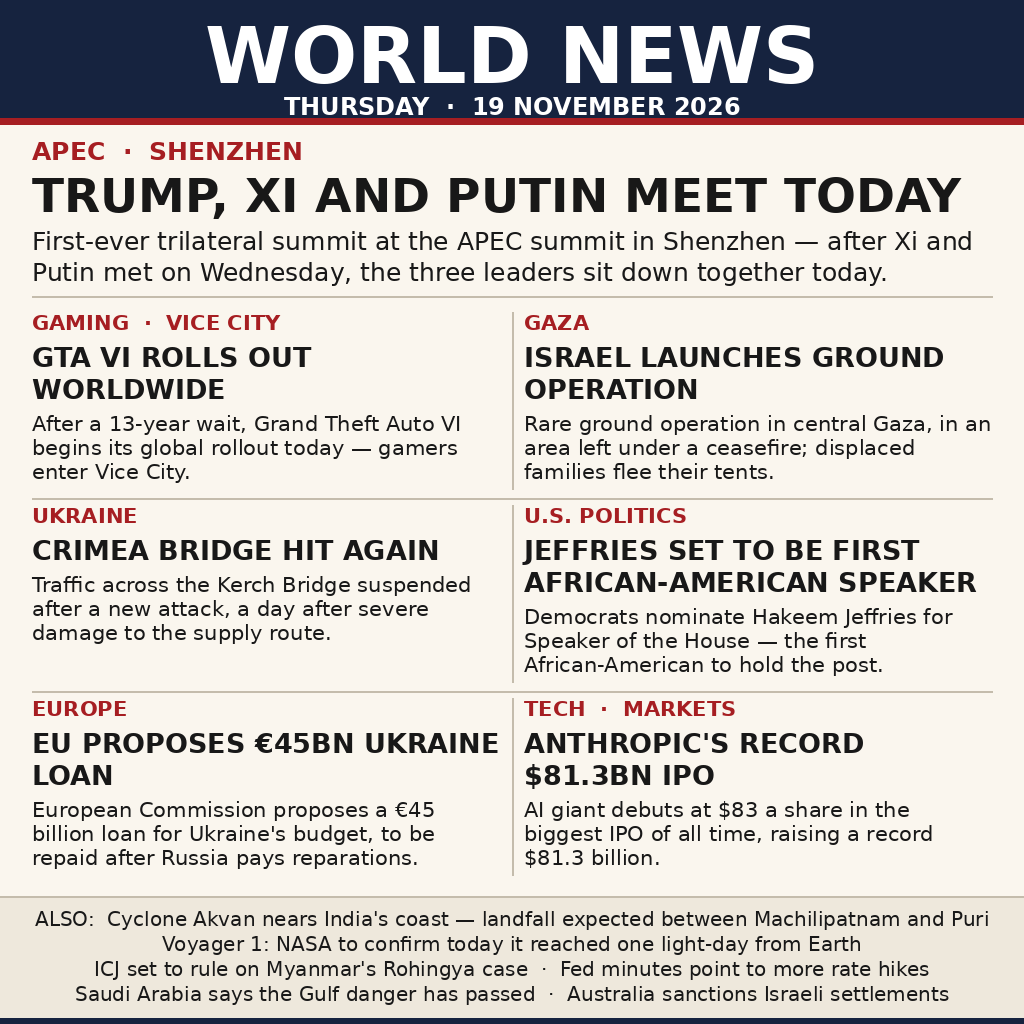
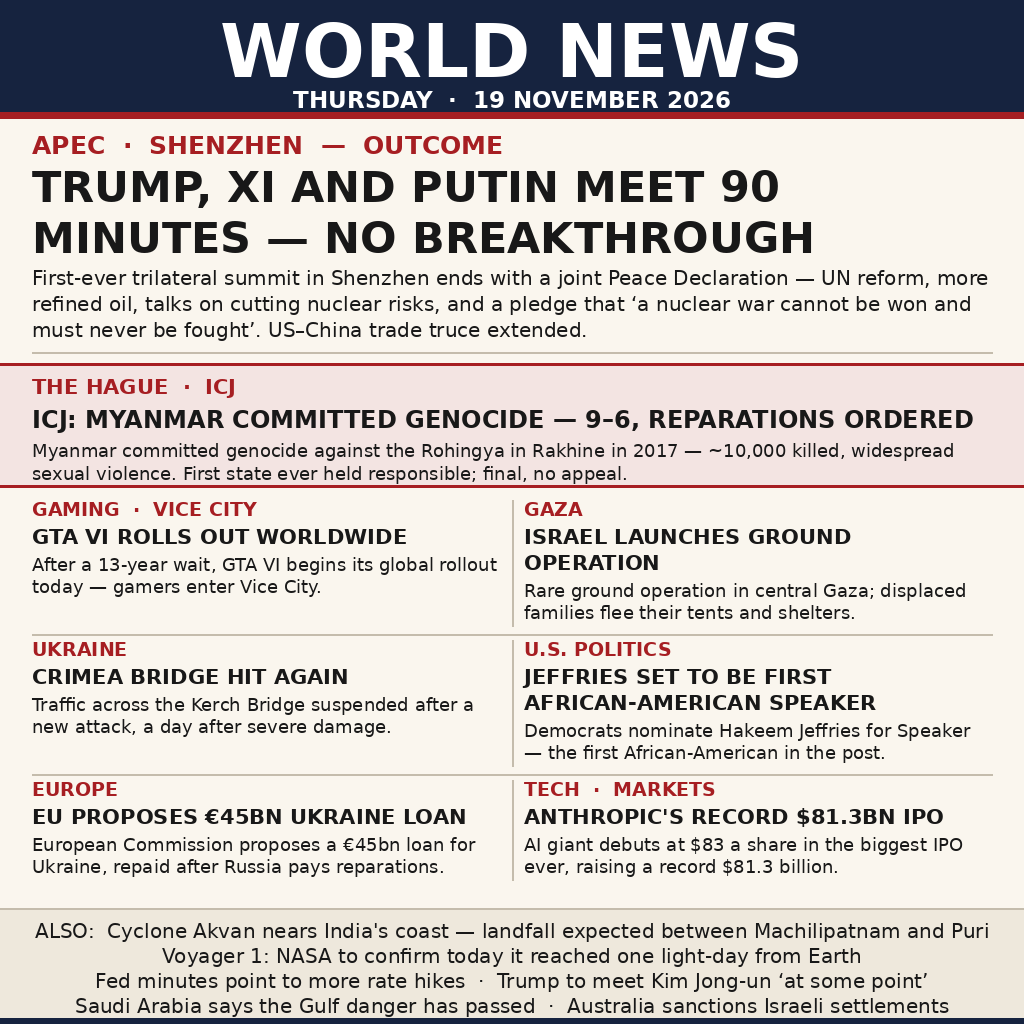
News front page v2: summit outcome + ICJ genocide verdict

Changed region(s): [[0.0, 0.0, 1.0, 1.0]]

diff --git a/gen.py b/gen.py
@@ -1,15 +1,30 @@
 #!/usr/bin/env python3
-"""Generate entry.png: a front-page newspaper infographic summing up the world
-news of Thursday 19 November 2026. Run: python3 gen.py (writes entry.png
-beside this file). All headlines, dates and numbers come from the verified
-facts file the main agent researched; nothing is invented. The trilateral
-summit is worded as happening TODAY (it had not happened at research time),
-never as an outcome.
+"""Generate entry.png v2: a front-page newspaper infographic summing up the
+world news of Thursday 19 November 2026. Run: python3 gen.py (writes
+entry.png beside this file). All headlines, dates and numbers come from the
+verified facts file plus the rebuild brief the main agent prepared on 20 Nov;
+nothing is invented.
 
-Revision pass: the first render cut every panel body off mid-sentence (the
-adaptive fit had dropped bodies to 2 lines). Fixed by shortening the hero
-body to two lines so all three body lines fit in every panel, adding a fourth
-bottom-strip line for completeness, and tightening row spacing for slack."""
+v2 changes vs v1 (both outcomes were unknown at v1 build time):
+- HERO: the Trump-Xi-Putin trilateral summit is no longer "meet today" —
+  it happened (~90 minutes, no immediate breakthrough) and ended with a
+  joint Peace Declaration plus an extended US-China trade truce.
+- NEW full-width ICJ band: the court ruled 19 Nov that Myanmar committed
+  genocide against the Rohingya in 2017 — 9-6, the first state ever held
+  responsible; judgment final, no appeal.
+- The six kept story panels and the bottom strip are unchanged in substance;
+  the strip's "ICJ set to rule" line is retired.
+
+Layout is measured, not guessed: every section height is computed from the
+actual wrapped line counts at render time and printed, so a text change
+that no longer fits is visible immediately instead of silently overflowing.
+
+Revision pass: the first v2 render let the grid's adaptive fit drop panel
+bodies to 1 line (cutting every body off mid-sentence) because the hero +
+ICJ band + 3-row grid needed ~23 px more than the v1 geometry allowed.
+Fixed by shrinking the masthead 118->112, hero headline 44->43 and body
+21->20, ICJ body 19->18, panel kicker/padding, row gap 10->8, and moving
+the strip 900->908 — bodies now keep their full 2 lines with slack."""
 
 from PIL import Image, ImageDraw, ImageFont
 
@@ -20,6 +35,7 @@ NAVY = (22, 35, 63)
 RED = (166, 30, 34)
 RULE = (196, 188, 172)
 STRIP_BG = (238, 232, 220)
+ICJ_BG = (243, 228, 226)
 
 FDIR = "/usr/share/fonts/truetype/dejavu/"
 
@@ -32,37 +48,48 @@ BOLD = "DejaVuSans-Bold.ttf"
 REG = "DejaVuSans.ttf"
 
 HERO = {
-    "kicker": "APEC  ·  SHENZHEN",
-    "headline": "TRUMP, XI AND PUTIN MEET TODAY",
-    "body": ("First-ever trilateral summit at the APEC summit in Shenzhen "
-             "\u2014 after Xi and Putin met on Wednesday, the three leaders "
-             "sit down together today."),
+    "kicker": "APEC  \u00b7  SHENZHEN  \u2014  OUTCOME",
+    "headline": "TRUMP, XI AND PUTIN MEET 90 MINUTES \u2014 NO BREAKTHROUGH",
+    "body": ("First-ever trilateral summit in Shenzhen ends with a joint "
+             "Peace Declaration \u2014 UN reform, more refined oil, talks on "
+             "cutting nuclear risks, and a pledge that \u2018a nuclear war "
+             "cannot be won and must never be fought\u2019. US\u2013China "
+             "trade truce extended."),
+}
+
+ICJ = {
+    "kicker": "THE HAGUE  \u00b7  ICJ",
+    "headline": ("ICJ: MYANMAR COMMITTED GENOCIDE \u2014 9\u20136, "
+                 "REPARATIONS ORDERED"),
+    "body": ("Myanmar committed genocide against the Rohingya in Rakhine "
+             "in 2017 \u2014 ~10,000 killed, widespread sexual violence. "
+             "First state ever held responsible; final, no appeal."),
 }
 
 PANELS = [
-    {"kicker": "GAMING  ·  VICE CITY",
+    {"kicker": "GAMING  \u00b7  VICE CITY",
      "headline": "GTA VI ROLLS OUT WORLDWIDE",
-     "body": ("After a 13-year wait, Grand Theft Auto VI begins its global "
-              "rollout today \u2014 gamers enter Vice City.")},
+     "body": ("After a 13-year wait, GTA VI begins its global rollout "
+              "today \u2014 gamers enter Vice City.")},
     {"kicker": "GAZA",
      "headline": "ISRAEL LAUNCHES GROUND OPERATION",
-     "body": ("Rare ground operation in central Gaza, in an area left under a "
-              "ceasefire; displaced families flee their tents.")},
+     "body": ("Rare ground operation in central Gaza; displaced families "
+              "flee their tents and shelters.")},
     {"kicker": "UKRAINE",
      "headline": "CRIMEA BRIDGE HIT AGAIN",
-     "body": ("Traffic across the Kerch Bridge suspended after a new attack, "
-              "a day after severe damage to the supply route.")},
+     "body": ("Traffic across the Kerch Bridge suspended after a new "
+              "attack, a day after severe damage.")},
     {"kicker": "U.S. POLITICS",
      "headline": "JEFFRIES SET TO BE FIRST AFRICAN-AMERICAN SPEAKER",
-     "body": ("Democrats nominate Hakeem Jeffries for Speaker of the House "
-              "\u2014 the first African-American to hold the post.")},
+     "body": ("Democrats nominate Hakeem Jeffries for Speaker \u2014 the "
+              "first African-American in the post.")},
     {"kicker": "EUROPE",
      "headline": "EU PROPOSES \u20ac45BN UKRAINE LOAN",
-     "body": ("European Commission proposes a \u20ac45 billion loan for "
-              "Ukraine's budget, to be repaid after Russia pays reparations.")},
-    {"kicker": "TECH  ·  MARKETS",
+     "body": ("European Commission proposes a \u20ac45bn loan for Ukraine, "
+              "repaid after Russia pays reparations.")},
+    {"kicker": "TECH  \u00b7  MARKETS",
      "headline": "ANTHROPIC'S RECORD $81.3BN IPO",
-     "body": ("AI giant debuts at $83 a share in the biggest IPO of all time, "
+     "body": ("AI giant debuts at $83 a share in the biggest IPO ever, "
               "raising a record $81.3 billion.")},
 ]
 
@@ -70,8 +97,8 @@ STRIP = [
     "ALSO:  Cyclone Akvan nears India's coast \u2014 landfall expected "
     "between Machilipatnam and Puri",
     "Voyager 1: NASA to confirm today it reached one light-day from Earth",
-    "ICJ set to rule on Myanmar's Rohingya case  \u00b7  Fed minutes point "
-    "to more rate hikes",
+    "Fed minutes point to more rate hikes  \u00b7  Trump to meet Kim "
+    "Jong-un \u2018at some point\u2019",
     "Saudi Arabia says the Gulf danger has passed  \u00b7  Australia "
     "sanctions Israeli settlements",
 ]
@@ -104,57 +131,91 @@ def main():
     content_w = W - 2 * margin
 
     # ---- Masthead -------------------------------------------------------
-    d.rectangle([0, 0, W, 118], fill=NAVY)
-    draw_center(d, 10, "WORLD NEWS", font(BOLD, 78), (255, 255, 255))
-    draw_center(d, 92, "THURSDAY  \u00b7  19 NOVEMBER 2026",
-                font(BOLD, 24), (255, 255, 255))
-    d.rectangle([0, 118, W, 124], fill=RED)
+    d.rectangle([0, 0, W, 112], fill=NAVY)
+    draw_center(d, 8, "WORLD NEWS", font(BOLD, 74), (255, 255, 255))
+    draw_center(d, 86, "THURSDAY  \u00b7  19 NOVEMBER 2026",
+                font(BOLD, 23), (255, 255, 255))
+    d.rectangle([0, 112, W, 118], fill=RED)
 
     # ---- Hero -----------------------------------------------------------
-    y = 136
+    y = 130
     d.text((margin, y), HERO["kicker"], font=font(BOLD, 25), fill=RED)
     y += 32
-    head_f = font(BOLD, 47)
-    for line in wrap(d, HERO["headline"], head_f, content_w):
+    head_f = font(BOLD, 43)
+    hero_head = wrap(d, HERO["headline"], head_f, content_w)
+    for line in hero_head:
         d.text((margin, y), line, font=head_f, fill=INK)
-        y += 56
+        y += 51
     y += 2
-    body_f = font(REG, 25)
-    for line in wrap(d, HERO["body"], body_f, content_w):
+    body_f = font(REG, 20)
+    hero_body = wrap(d, HERO["body"], body_f, content_w)
+    for line in hero_body:
         d.text((margin, y), line, font=body_f, fill=INK)
-        y += 31
+        y += 26
     hero_bottom = y + 8
     d.line([(margin, hero_bottom), (W - margin, hero_bottom)],
            fill=RULE, width=2)
 
+    # ---- ICJ band (full width, tinted) ---------------------------------
+    band_top = hero_bottom + 12
+    icj_kick_f = font(BOLD, 21)
+    icj_head_f = font(BOLD, 24)
+    icj_body_f = font(REG, 18)
+    icj_head = wrap(d, ICJ["headline"], icj_head_f, content_w)
+    icj_body = wrap(d, ICJ["body"], icj_body_f, content_w)
+    band_h = 26 + 5 + len(icj_head) * 30 + 5 + len(icj_body) * 23 + 10
+    d.rectangle([0, band_top, W, band_top + band_h], fill=ICJ_BG)
+    d.line([(0, band_top), (W, band_top)], fill=RED, width=3)
+    d.line([(0, band_top + band_h), (W, band_top + band_h)],
+           fill=RED, width=3)
+    by = band_top + 10
+    d.text((margin, by), ICJ["kicker"], font=icj_kick_f, fill=RED)
+    by += 26 + 5
+    for line in icj_head:
+        d.text((margin, by), line, font=icj_head_f, fill=INK)
+        by += 30
+    by += 5
+    for line in icj_body:
+        d.text((margin, by), line, font=icj_body_f, fill=INK)
+        by += 23
+    band_bottom = band_top + band_h
+
     # ---- Story grid: 2 columns x 3 rows, rows sized to content ---------
     gap_x = 24
-    row_gap = 10
+    row_gap = 8
     col_w = (content_w - gap_x) // 2
-    grid_top = hero_bottom + 14
-    strip_top = 896  # bottom strip band starts here
+    grid_top = band_bottom + 12
+    strip_top = 908  # bottom strip band starts here
     avail = strip_top - grid_top - 8
-    kick_f = font(BOLD, 21)
-    head_f2 = font(BOLD, 27)
-    body_f2 = font(REG, 21)
+    kick_f = font(BOLD, 19)
+    head_f2 = font(BOLD, 21)
+    body_f2 = font(REG, 18)
 
     def panel_height(panel, max_body_lines):
         lines = wrap(d, panel["headline"], head_f2, col_w)
         body = wrap(d, panel["body"], body_f2, col_w)[:max_body_lines]
-        return 25 + 6 + len(lines) * 32 + 6 + len(body) * 24 + 10
+        return 22 + 4 + len(lines) * 26 + 4 + len(body) * 22 + 6
 
-    max_body = 3
+    max_body = 2
     while True:
         heights = [panel_height(p, max_body) for p in PANELS]
         rows = [max(heights[i], heights[i + 1]) for i in (0, 2, 4)]
         total = sum(rows) + 2 * row_gap
-        if total <= avail or max_body <= 2:
+        if total <= avail or max_body <= 1:
             break
         max_body -= 1
 
-    print("layout: hero_bottom=%d grid_top=%d row_heights=%s total=%d "
-          "avail=%d body_lines=%d" % (hero_bottom, grid_top, rows, total,
-                                      avail, max_body))
+    print("layout: hero_head=%d hero_body=%d hero_bottom=%d "
+          "icj_head=%d icj_body=%d band_bottom=%d grid_top=%d "
+          "row_heights=%s total=%d avail=%d body_lines=%d"
+          % (len(hero_head), len(hero_body), hero_bottom,
+             len(icj_head), len(icj_body), band_bottom, grid_top,
+             rows, total, avail, max_body))
+    if total > avail:
+        print("WARNING: grid overflows by %d px" % (total - avail))
+    if max_body < 2:
+        print("WARNING: panel bodies truncated to %d line(s) — "
+              "text will be cut off mid-sentence" % max_body)
 
     y = grid_top
     for r in range(3):
@@ -164,14 +225,14 @@ def main():
             x = margin + c * (col_w + gap_x)
             py = y
             d.text((x, py), p["kicker"], font=kick_f, fill=RED)
-            py += 25 + 6
+            py += 22 + 4
             for line in wrap(d, p["headline"], head_f2, col_w):
                 d.text((x, py), line, font=head_f2, fill=INK)
-                py += 32
-            py += 6
+                py += 26
+            py += 4
             for line in wrap(d, p["body"], body_f2, col_w)[:max_body]:
                 d.text((x, py), line, font=body_f2, fill=INK)
-                py += 24
+                py += 22
         # vertical divider between columns
         d.line([(margin + col_w + gap_x // 2, y + 2),
                 (margin + col_w + gap_x // 2, y + rh - 4)],

diff --git a/README.md b/README.md
@@ -8,18 +8,19 @@ An entry for [make.fun's "Sum up 19 November's world news in one image" bounty](
 
 ## The image
 
-`entry.png` is a front-page newspaper infographic of Thursday 19 November 2026, drawn by `gen.py` (PIL + DejaVu Sans) from news verified across multiple briefings:
+`entry.png` is a front-page newspaper infographic of Thursday 19 November 2026, drawn by `gen.py` (PIL + DejaVu Sans) from news verified across multiple briefings. v2 was rebuilt on 20 November after the day's two biggest stories reached their outcomes:
 
-- **Hero — APEC · Shenzhen:** Trump, Xi and Putin meet today in the first-ever trilateral summit at the APEC summit in Shenzhen.
+- **Hero — APEC · Shenzhen (outcome):** Trump, Xi and Putin met for 90 minutes with no immediate breakthrough; the first-ever trilateral summit ended with a joint Peace Declaration — UN reform, more refined oil, talks on cutting nuclear risks, and a pledge that "a nuclear war cannot be won and must never be fought". The US–China trade truce was extended.
+- **ICJ — The Hague (new, large panel):** the International Court of Justice ruled 9–6 that Myanmar committed genocide against the Rohingya in Rakhine in 2017 — ~10,000 killed, widespread sexual violence — the first state ever held responsible for genocide. Judgment final, no appeal; reparations ordered.
 - **Gaming:** Grand Theft Auto VI begins its global rollout — gamers enter Vice City after a 13-year wait.
 - **Gaza:** Israel launches a rare ground operation in central Gaza.
 - **Ukraine:** the Crimea (Kerch) Bridge is hit again; traffic suspended.
 - **U.S. Politics:** Hakeem Jeffries set to be the first African-American Speaker of the House.
 - **Europe:** the EU proposes a €45 billion loan for Ukraine.
 - **Tech:** Anthropic's record $81.3 billion IPO at $83 a share.
-- **Also:** Cyclone Akvan nears India's coast; NASA to confirm Voyager 1 reached one light-day; the ICJ set to rule on Myanmar's Rohingya case; Fed minutes point to more rate hikes; Saudi Arabia says the Gulf danger has passed; Australia sanctions Israeli settlements.
+- **Also:** Cyclone Akvan nears India's coast; NASA to confirm Voyager 1 reached one light-day; Fed minutes point to more rate hikes; Trump to meet Kim Jong-un "at some point"; Saudi Arabia says the Gulf danger has passed; Australia sanctions Israeli settlements.
 
-Every headline, date and number comes from the verified facts; the summit is worded as happening today, with no outcome claimed.
+Every headline, date and number comes from the verified facts; v1's "meet today" and "ICJ set to rule" wordings are retired now that both outcomes are known.
 
 ## How it runs
 
@@ -27,7 +28,7 @@ Every headline, date and number comes from the verified facts; the summit is wor
 
 ```sh
 mkdir -p out && MAKEFUN_OUTPUT_DIR=out node main.ts
-# entry.png OK: 1024x1024, 150902 bytes
+# entry.png OK: 1024x1024, 155510 bytes
 ```
 
 `gen.py` is the image generator (PIL, runs on the build machine only); it is not used by the shipped program.
